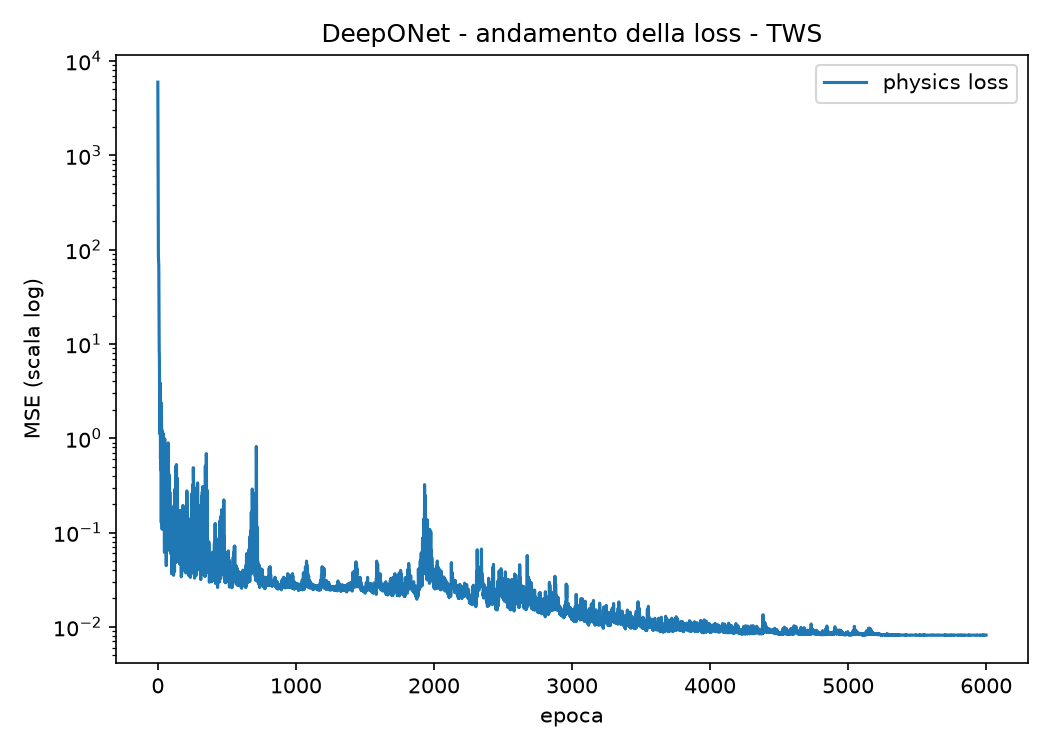
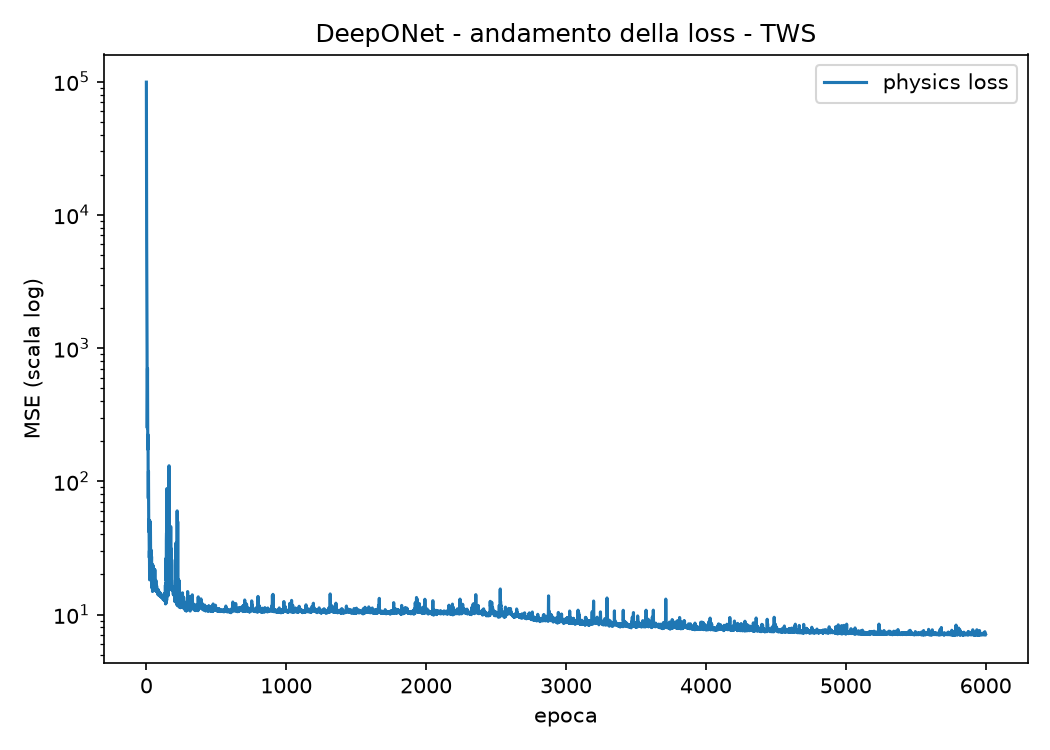
refactor: update training margin and plot title in train_deeponet_TWS function

diff --git a/src/training/train_deeponet_TWS.py b/src/training/train_deeponet_TWS.py
@@ -35,7 +35,7 @@ def train_deeponet_TWS(model, epochs= 6000, lr = 1e-3, device = "cpu",
     gamma = gamma.reshape(-1, 1)
     scaling_factor = 2
     p_sign_min, p_sign_max = p1, 0.0    # regione dove ti aspetti cascata diretta (F>0)
-    margin = 0.1                        # IMPORTANTE, vedi sotto
+    margin = 0.5                        # IMPORTANTE, vedi sotto
     
     p_sign = rng.uniform(p_sign_min, p_sign_max, size=n_bc_points)
     profiles = np.array([power_law(p, A, sensor_grid) for p in ps])
@@ -128,7 +128,7 @@ def plot_flux_vs_p_TWS(model, ps, A, beta, k_min, sensor_grid, k_c,
     plt.ylabel(r"$^1 P^4_1$")
     plt.ylim(-5, 15)
     plt.xlim(-0.9, 0.15)
-    plt.title(r"Wave action flux: DeepONet vs solver MMT ($^1 P^4_{(0, 1) \rightarrow (1, \infty)}$)")
+    plt.title(r"Wave action flux: DeepONet solved TWS ($^1 P^4_{(0, 1) \rightarrow (1, \infty)}$)")
     plt.legend()
     plt.tight_layout()
     if save_path:

diff --git a/main_TWS.py b/main_TWS.py
@@ -16,7 +16,7 @@ model.load_state_dict(torch.load("weights/deeponet_weights_mmt.pt"))
 model, history = train_deeponet_TWS(
     model, epochs=6000, lr=1e-3,
     sensor_grid=sensor_grid, A=1.0, k_c_min=0.1, k_c_max=1.0, alpha = 1.5,
-    d = 2.0, beta=9/4, n_bc_points=1000, rng = rng, lambda1 = 1, lambda2 = 1, lambda3 = 1, lambda4 = 1
+    d = 2.0, beta=9/4, n_bc_points=1000, rng = rng, lambda1 = 1, lambda2 = 10, lambda3 = 50, lambda4 = 100
 )
 model.eval()
 #torch.save(model.state_dict(), "weights/deeponet_weights_TWS.pt")
